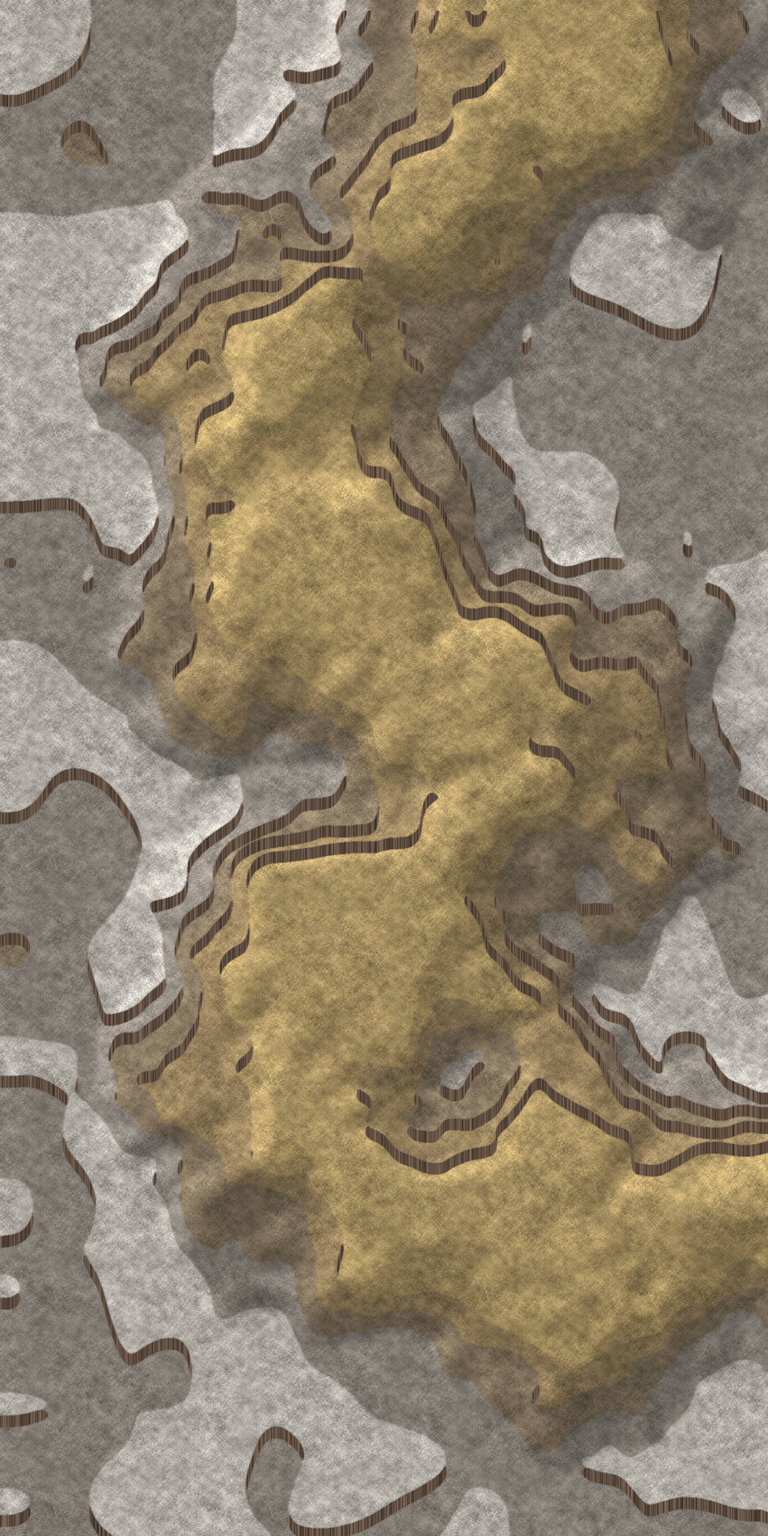
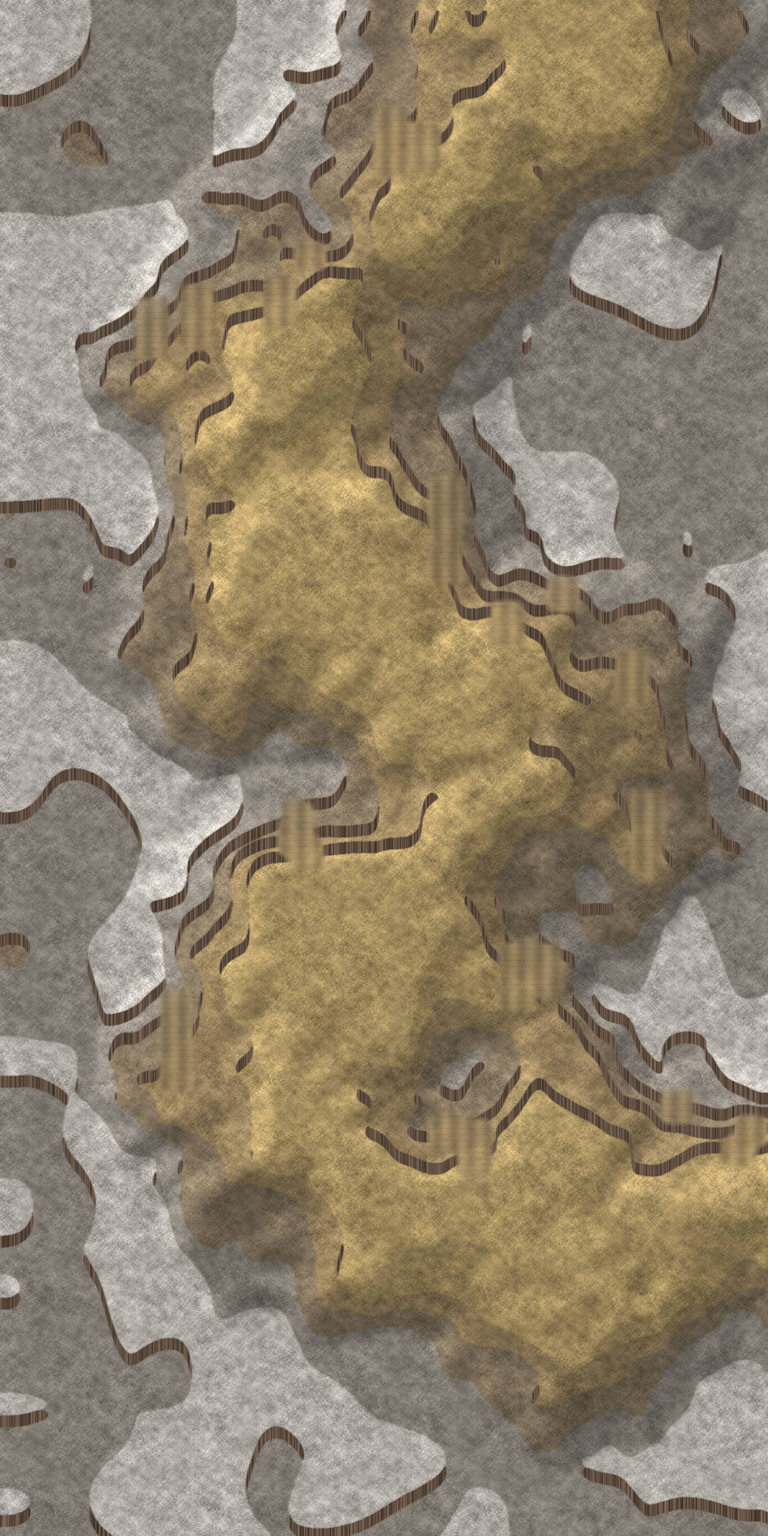
山地加坡道：可爬崖面开缺口通行，山峰层仍不可上；崖面一律挡路
Claude-Session: https://claude.ai/code/session_011WrGna6yNwTfpmyp4CxMHs

diff --git a/tools/build_mountain.py b/tools/build_mountain.py
@@ -44,11 +44,27 @@ T=np.clip(T,0,1); T=cv2.GaussianBlur(T,(0,0),1.3)
 FACE=18                                           # 崖面高度（逻辑像素）
 Tn=np.roll(T,FACE,axis=0); Tn[:FACE]=T[:FACE]      # 每个像素取它北边 FACE 像素处的高度
 face=np.clip((Tn-T)*Q*1.2,0,1)                    # 北边更高 -> 这里是朝南的崖面
-blocked=(T>=0.5)|((face>0.35)&(Tn>=0.5))
+# ---------- 坡道：每段可爬的崖面开几条缺口，缺口处没有崖面、可通行 ----------
+Fm=((face>0.35)&(Tn<0.75)).astype(np.uint8)          # 通向山峰（最高层）的崖面不开坡
+nl,lab,st,_=cv2.connectedComponentsWithStats(Fm,connectivity=8)
+ramp=np.zeros((H,WL),np.float32); rr=np.random.default_rng(77); nramp=0
+for i in range(1,nl):
+    x,y,w,hg,area=st[i]
+    if area<1800 or w<70: continue
+    cnt=max(1,int(w//300))
+    for k_ in range(cnt):
+        cx=int(x+(k_+0.5+(rr.random()-0.5)*0.5)*w/cnt)
+        ys_=np.where(lab[:,max(0,cx-40):cx+40]==i)[0]
+        if len(ys_)==0: continue
+        cv2.rectangle(ramp,(cx-26,int(ys_.min())-8),(cx+26,int(ys_.max())+12),1.0,-1); nramp+=1
+ramp=np.clip(cv2.GaussianBlur(ramp,(0,0),9)*1.5,0,1)
+face=face*(1-ramp)
+blocked=(T>=0.75)|(face>0.35)
+print('ramps',nramp)
 gx=cv2.Sobel(cv2.GaussianBlur(h,(0,0),8),cv2.CV_32F,1,0,ksize=3)/8; gy=cv2.Sobel(cv2.GaussianBlur(h,(0,0),8),cv2.CV_32F,0,1,ksize=3)/8
 shade=np.clip(1-60*(gx*0.6+gy*0.8),0.8,1.25)
 up=lambda a:cv2.resize(a.astype(np.float32),(WL*HD,H*HD),interpolation=cv2.INTER_LINEAR)
-hH=up(h); shH=up(shade); TH=up(T); fH=up(face)
+hH=up(h); shH=up(shade); TH=up(T); fH=up(face); rH=up(ramp)[...,None]
 stops=[(0.0,(162,140,94)),(0.25,(140,120,86)),(0.5,(122,108,88)),(0.75,(128,122,114)),(1.0,(172,168,162))]
 col=np.zeros((H*HD,WL*HD,3),np.float32)
 xs=np.array([s[0] for s in stops],np.float32)
@@ -57,6 +73,11 @@ tile=seamless(cv2.cvtColor(cv2.imread(SRC+'grass.png'),cv2.COLOR_BGR2RGB),720).m
 tile=(tile-tile.mean())/(tile.std()+1e-6)
 big=np.tile(tile,(H*HD//720+2,WL*HD//720+2))[:H*HD,:WL*HD]
 col*=(1+0.10*big[...,None]+0.04*fbm(18,21,2,WL*HD,H*HD)[...,None])*shH[...,None]
+# 坡道：土黄色斜坡，带一道道台阶横纹
+yy_=np.arange(H*HD)[:,None]
+steps=np.where((yy_%(10*HD))<2*HD,0.93,1.0)[...,None]
+rc=np.array([158,136,98],np.float32)*steps*(0.92+0.12*np.sin(np.arange(WL*HD)[None,:,None]/9.0))
+col=col*(1-0.7*rH)+rc*0.7*rH
 # 崖面：深褐色竖纹，越靠崖脚越暗
 vs=cv2.resize(np.random.default_rng(5).random((8,(WL*HD)//3+3)).astype(np.float32),((WL*HD)//3*3+9,H*HD),interpolation=cv2.INTER_CUBIC)[:H*HD,:WL*HD]
 fc=np.array([88,72,60],np.float32)*(0.72+0.7*vs[...,None])
